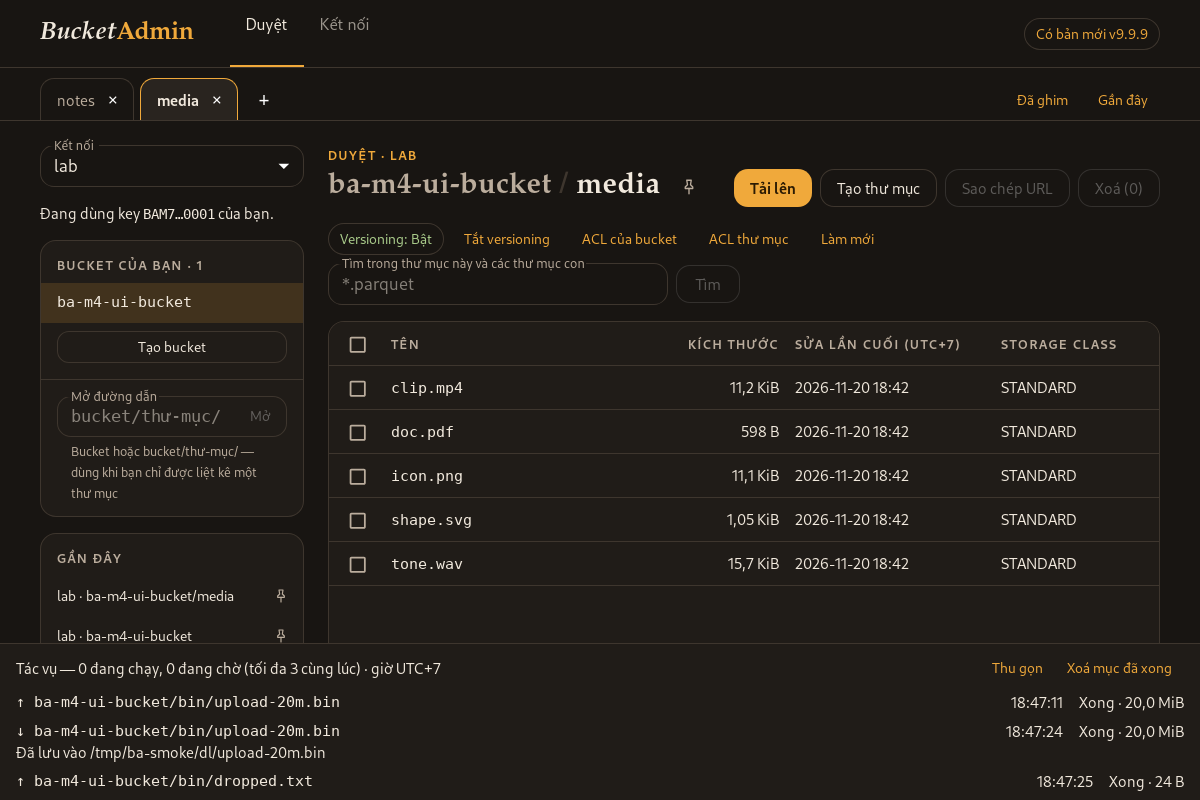
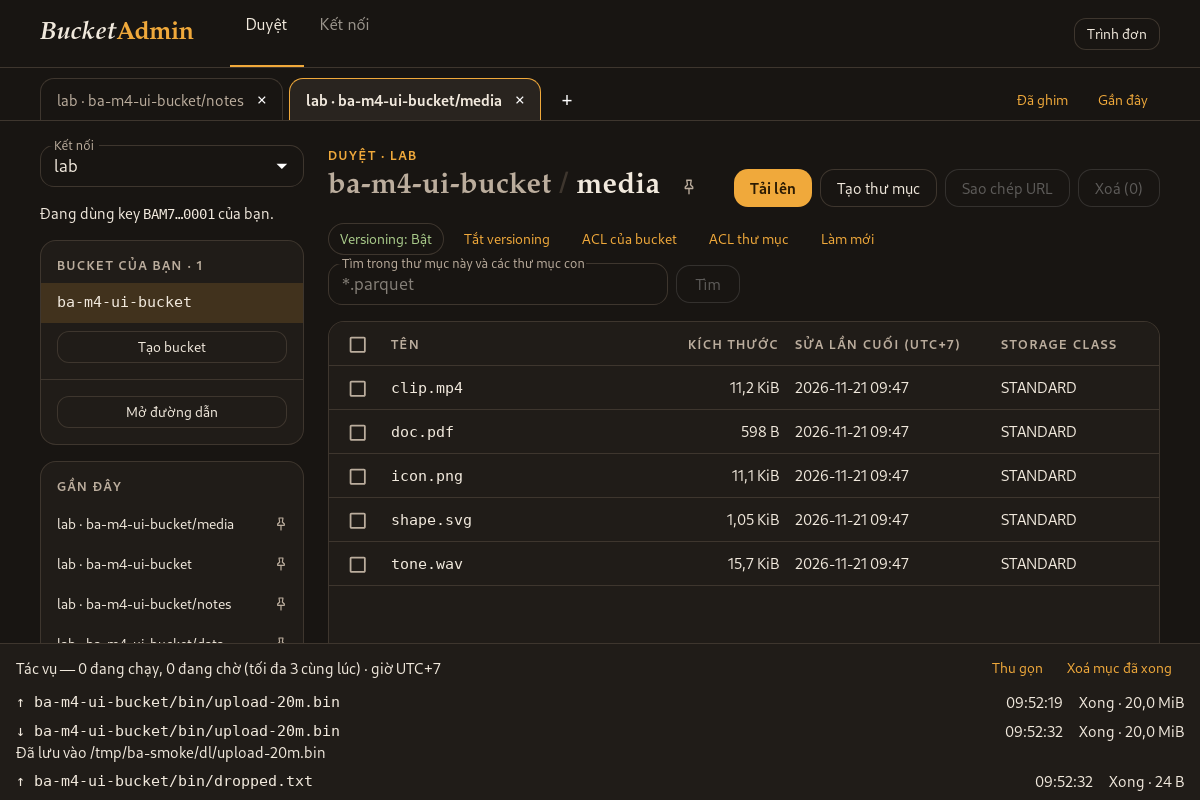
M10 close-out: smoke flow fixes, pictures without the canned update badge, light theme and many-connections pictures
- flow: the Pinned menu starts with "Pin a path…"; the audit header is read through textContent;
  the connection label is typed again when the profile reload resets the field
- flow: the canned v9.9.9 badge is hidden after it has been checked, so no picture shows it
- READMEs: browse.light and connections-many linked, the badge sentence removed

diff --git a/scripts/ui-smoke/flow-browse.js b/scripts/ui-smoke/flow-browse.js
@@ -76,7 +76,12 @@
       // Type-ahead: the label is typed, the matching choice (label, endpoint under it) is clicked.
       f.focus();
       setValue(f, label);
-      (await waitFor(() => all("[role=option]").find((o) => o.textContent.trim().startsWith(label)), `connection ${label} among the choices`)).click();
+      // A connection saved a moment ago arrives with the next reload of the profiles, and that reload puts the
+      // field back to the connection in use: the label is typed again until its choice is there.
+      (await waitFor(() => {
+        if (connectionField().value !== label) setValue(connectionField(), label);
+        return all("[role=option]").find((o) => o.textContent.trim().startsWith(label));
+      }, `connection ${label} among the choices`)).click();
       await waitFor(() => connectionShown() === label && all("[role=option]").length === 0, `connection ${label} chosen`);
     };
     const bucketRow = (name) => all(bucketButtons).find((row) => row.textContent.trim() === name);
@@ -107,6 +112,9 @@
     await waitFor(() => button(T("app.connections")), "the app", 30000);
     await waitFor(() => seen("app.update.toast", { tag: "v9.9.9" }) && button(T("app.update.open")), "update toast");
     check(all(".MuiChip-root").some((c) => c.textContent === T("app.update.badge", { tag: "v9.9.9" })), "update badge in the masthead");
+    // The badge is checked above; it is canned, so the pictures (the README ones come from this run) do not show it.
+    // visibility, not display: the masthead keeps its width for the "does not scroll sideways" checks.
+    document.head.appendChild(document.createElement("style")).textContent = '.MuiChip-root[title*="v9.9.9"] { visibility: hidden; }';
     check(!button("Users") && !button("Buckets") && !button("Audit"), "no admin screens");
     await click(T("app.connections"));
     const savedRows = () => all(starts("conn.remove")).length;
@@ -670,9 +678,9 @@
     await waitFor(() => connectionShown() === "lab" && objectLink("notes/readme.txt"), "the first tab, in the pinned folder");
     // The app bar's Pinned menu lists them too; a place that is open is shown in its tab.
     await click(T("app.pinned"));
-    await waitFor(() => menuItems().join(" | ") === [`daily notes · lab · ${BUCKET}/notes`, `lab · ${BUCKET}/media`, `lab · ${BUCKET}`].join(" | "), "the Pinned menu of the app bar");
+    await waitFor(() => menuItems().join(" | ") === [T("pins.add"), `daily notes · lab · ${BUCKET}/notes`, `lab · ${BUCKET}/media`, `lab · ${BUCKET}`].join(" | "), "the Pinned menu of the app bar: pin a path, then the pins");
     check(fits() && inWindow(last(all(".MuiMenu-paper"))), "the Pinned menu fits the window");
-    first(all("[role=menuitem]")).click();
+    all("[role=menuitem]")[1].click();
     await waitFor(() => menuItems().length === 0 && tabs().length === 2 && objectLink("notes/readme.txt"), "an open place is not opened twice");
     check(fits(), "Browse with the Pinned panel does not scroll sideways");
     await shot("37-pinned");
@@ -837,7 +845,7 @@
     await click(T("app.menu"));
     await clickSel("[role=menuitem]:last-child");
     const auditRows = () => all(`table${sel("audit.table")} tbody tr`);
-    await waitFor(() => auditRows().length >= 10 && hasText(T("audit.col.time", { tz: "UTC+7" })), "the audit log lists what the flow did", 20000);
+    await waitFor(() => auditRows().length >= 10 && all("th").some((h) => h.textContent === T("audit.col.time", { tz: "UTC+7" })), "the audit log lists what the flow did", 20000);
     check(auditRows().every((r) => r.getBoundingClientRect().height >= 40), "audit rows keep the size floor");
     check(!button(T("common.delete")) && !hasText("CSV") && fits(), "no delete or export, nothing scrolls sideways");
     const auditFilter = await waitFor(() => last(all(`input${sel("audit.filter")}`)), "the audit filter");

diff --git a/README.vi.md b/README.vi.md
@@ -10,8 +10,7 @@ App nói chuyện thẳng với endpoint S3 của RGW. Không cần cài gì lê
 
 ![Duyệt bucket với nhiều tab](docs/images/browse.vi.png)
 
-Ảnh trong tài liệu này chụp từ bài smoke test chạy với một cụm thử nghiệm; huy hiệu "Có bản mới v9.9.9" là câu trả lời giả lập
-của bài test cho phần kiểm tra bản mới.
+Ảnh trong tài liệu này chụp từ bài smoke test chạy với một cụm thử nghiệm.
 
 ## Tính năng
 
@@ -58,7 +57,11 @@ của bài test cho phần kiểm tra bản mới.
 - Mọi thay đổi bạn làm (upload, xoá, đổi ACL…) được ghi vào một audit log cục bộ (SQLite, `audit.db` trong thư mục dữ liệu của
   app); log không bao giờ chứa secret hay presigned URL.
 
+![Giao diện sáng](docs/images/browse.light.vi.png)
+
 ![Thêm kết nối](docs/images/connection.vi.png)
+
+![Nhiều kết nối đã lưu: có số đếm và ô tìm](docs/images/connections-many.vi.png)
 
 ![Xem trước Parquet](docs/images/parquet.vi.png)
 

diff --git a/README.md b/README.md
@@ -11,8 +11,7 @@ needed.
 
 ![Browsing a bucket in several tabs](docs/images/browse.png)
 
-The pictures in this document come from the smoke test, run against a test cluster; the "New version v9.9.9" badge is the
-canned answer that test gives the update check.
+The pictures in this document come from the smoke test, run against a test cluster.
 
 ## Features
 
@@ -65,7 +64,11 @@ canned answer that test gives the update check.
 - Every change you make (upload, delete, ACL change…) is written to a local audit log (SQLite, `audit.db` in the app's data
   folder); the log never holds a secret or a presigned URL.
 
+![The light theme](docs/images/browse.light.png)
+
 ![Adding a connection](docs/images/connection.png)
+
+![Many saved connections: a count and a search field](docs/images/connections-many.png)
 
 ![Parquet preview](docs/images/parquet.png)
 
